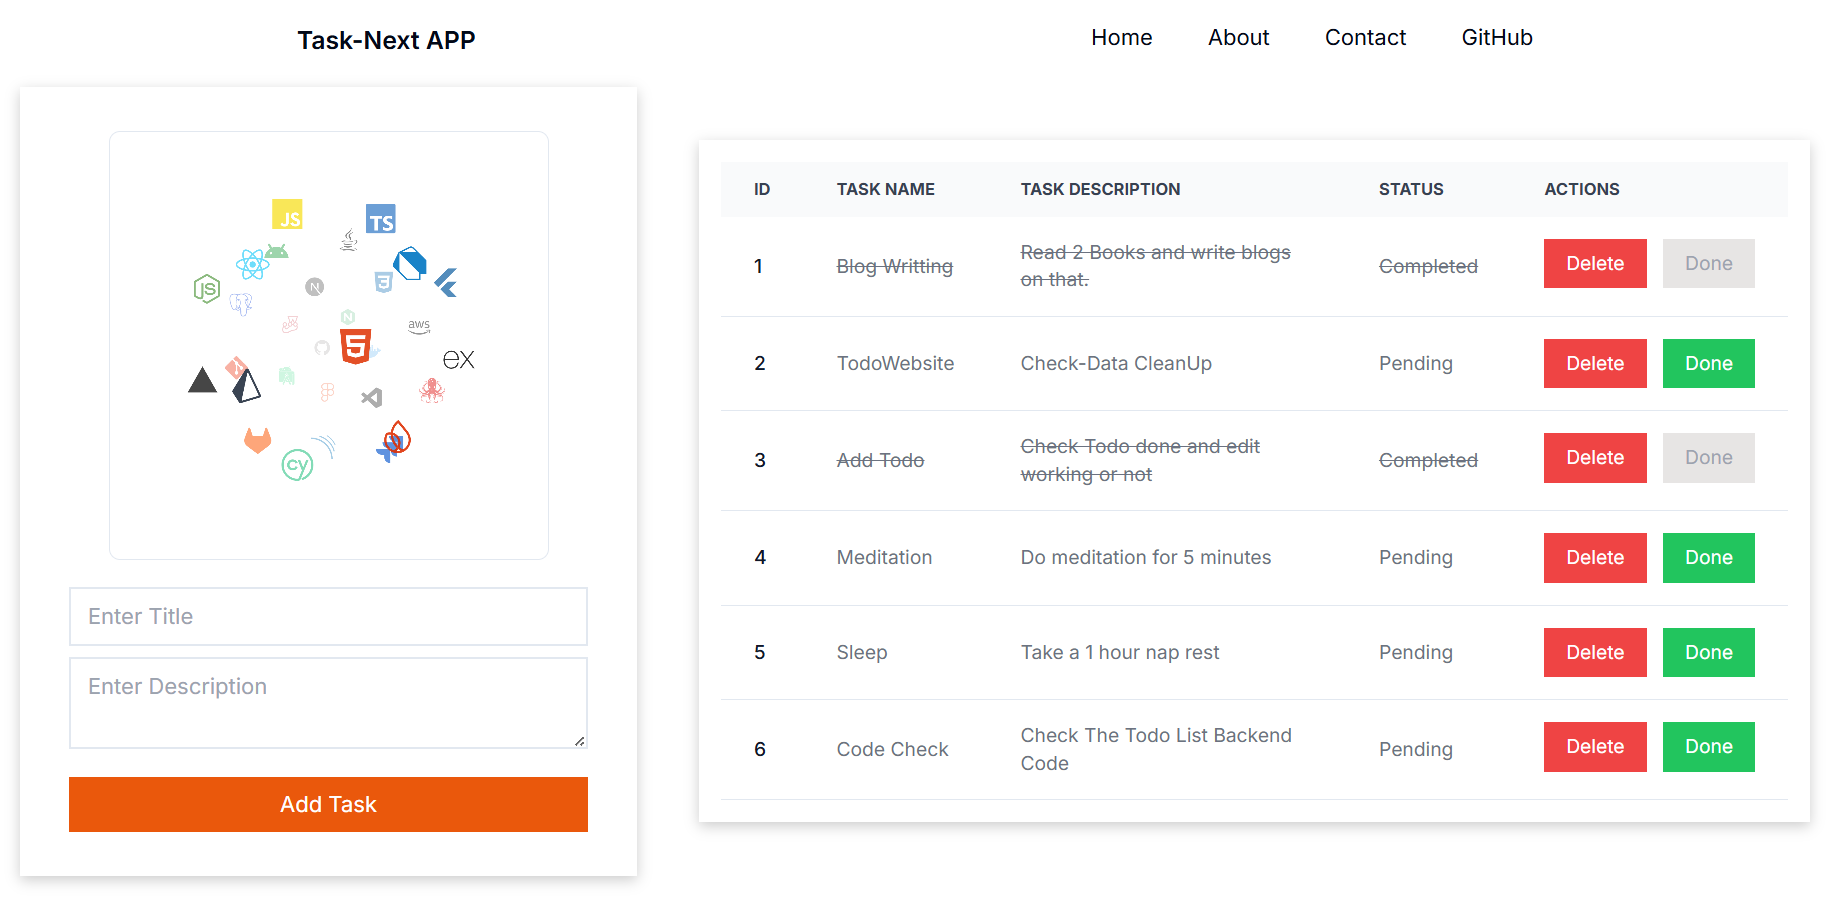
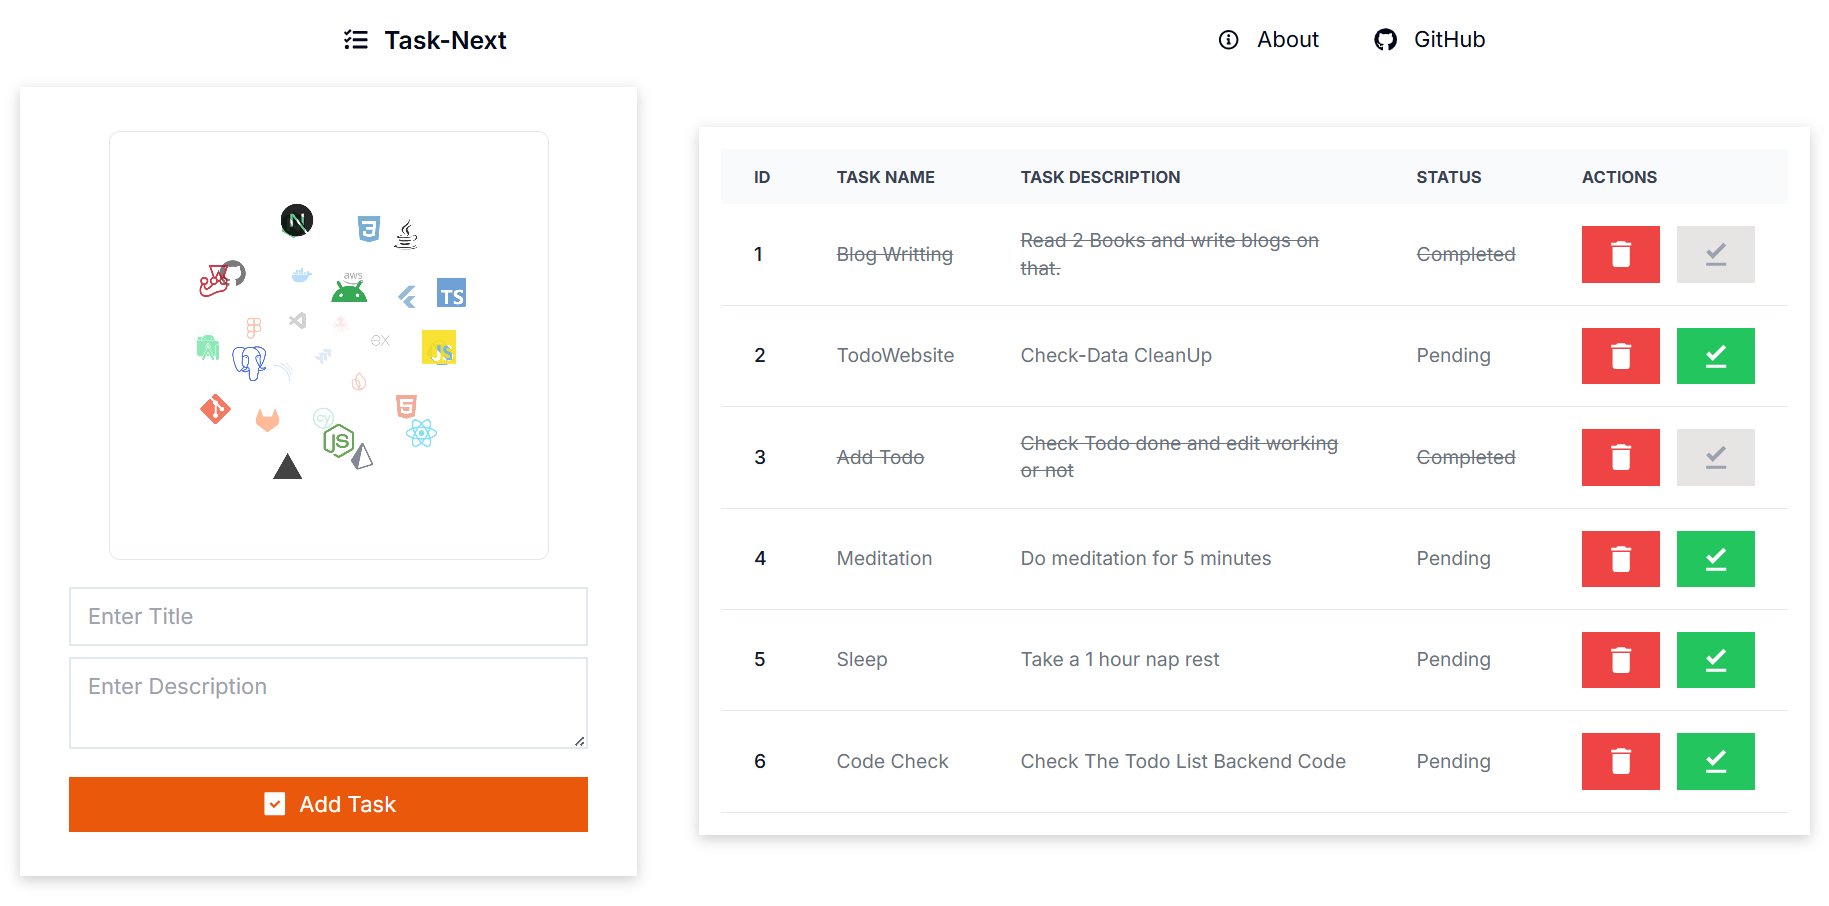
add : more colorful buttons

diff --git a/app/components/Navbar.tsx b/app/components/Navbar.tsx
@@ -1,13 +1,23 @@
+import Link from "next/link";
+import { FaTasks } from "react-icons/fa";
+import { FaGithub } from "react-icons/fa";
+import { RiInformation2Line } from "react-icons/ri";
 
 const Navbar = () => {
   return (
     <div className="flex py-5 flex-wrap justify-around">
-      <h1 className="text-lg font-semibold"> Task-Next APP</h1>
+      <h1 className="text-lg font-semibold flex gap-3 justify-center items-center">
+        <FaTasks size={17} /> Task-Next
+      </h1>
       <ul className="flex gap-[40px] text-m">
-        <li>Home</li>
-        <li>About</li>
-        <li>Contact</li>
-        <li>GitHub</li>
+        <li className="flex gap-3 justify-center items-center">
+          <RiInformation2Line size={17} />
+          <Link href=""> About</Link>
+        </li>
+        <li className="flex gap-3 justify-center items-center">
+          <FaGithub size={17} />
+          <Link href=""> GitHub</Link>
+        </li>
       </ul>
     </div>
   );

diff --git a/app/components/TodoData.tsx b/app/components/TodoData.tsx
@@ -1,4 +1,6 @@
 import { ObjectId } from "mongodb";
+import { MdDelete } from "react-icons/md";
+import { MdOutlineDownloadDone } from "react-icons/md";
 
 interface TodoDataProps {
   id: number;
@@ -41,7 +43,7 @@ const TodoData = ({
           className="px-4 py-2 bg-red-500 text-white"
           onClick={() => deleteTodo(mongoID)} // Call deleteTodo with mongoID
         >
-          Delete
+          <MdDelete size={25} />
         </button>
         <button
           className={`px-4 py-2 text-white ${
@@ -50,11 +52,10 @@ const TodoData = ({
           onClick={() => completeTodo(mongoID)} // Call completeTodo with mongoID
           disabled={isCompleted} // Disable button if isCompleted is true
         >
-          Done
+          <MdOutlineDownloadDone size={25} />
         </button>
       </td>
     </tr>
-   
   );
 };
 

diff --git a/app/page.tsx b/app/page.tsx
@@ -6,6 +6,7 @@ import "react-toastify/dist/ReactToastify.css";
 import axios from "axios";
 import { ObjectId } from "mongodb";
 import { IconCloudDemo } from "./components/Tweek";
+import { RiTaskFill } from "react-icons/ri";
 
 // Define the Todo interface
 interface Todo {
@@ -118,9 +119,9 @@ export default function Home() {
             />
             <button
               type="submit"
-              className="w-full mt-3 px-11 py-2 bg-orange-600 text-white"
+              className="w-full flex gap-2 justify-center items-center mt-3 px-8 py-2 bg-orange-600 text-white"
             >
-              Add Task
+              <RiTaskFill size={20} /> Add Task
             </button>
           </form>
         </div>

diff --git a/README.md b/README.md
@@ -8,7 +8,7 @@ TaskNext is a minimalistic website designed to help you manage your tasks effici
 ![TypeScript](https://img.shields.io/badge/TypeScript-007ACC?style=for-the-badge&logo=typescript&logoColor=white)
 ![MongoDB](https://img.shields.io/badge/MongoDB-4EA94B?style=for-the-badge&logo=mongodb&logoColor=white)
 ![Tailwind CSS](https://img.shields.io/badge/Tailwind_CSS-38B2AC?style=for-the-badge&logo=tailwind-css&logoColor=white)
-
+![Magic UI](https://img.shields.io/badge/Magic_UI-FF7143?style=for-the-badge&logo=react&logoColor=white)
 
 <img src="./assets/image.png" width="80%">
 
